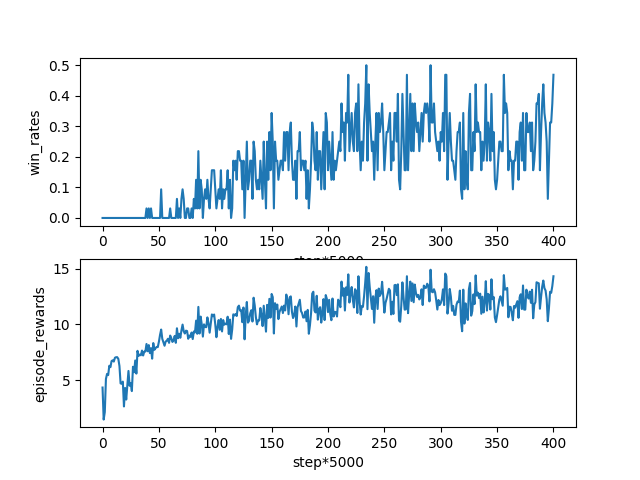
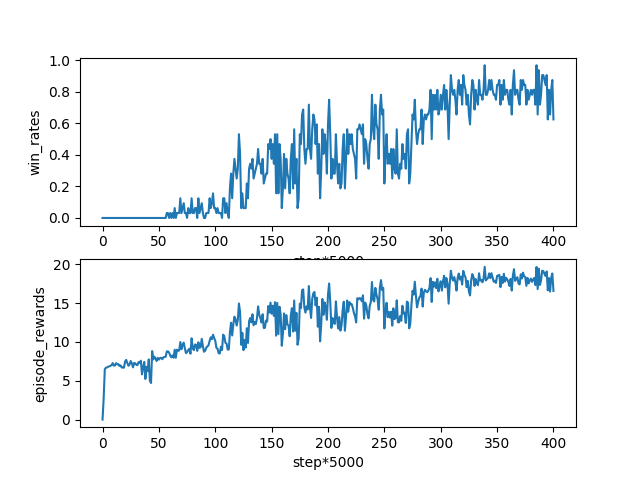
dtrans_obsw

diff --git a/network/dtrans.py b/network/dtrans.py
@@ -14,8 +14,8 @@ class DTRANS(nn.Module):
         self.qe = args.quantile_emb_dim 
         self.hypernet_emb = args.hypernet_emb
         self.state_dim = int(np.prod(args.state_shape))
-        """self.obs_w = OBS_W(args)
-        self.b_mean = nn.Sequential(nn.Linear(self.state_dim, self.hypernet_emb),
+        self.obs_w = OBS_W(args)
+        """self.b_mean = nn.Sequential(nn.Linear(self.state_dim, self.hypernet_emb),
                                     nn.ReLU(),
                                     nn.Linear(self.hypernet_emb, 1))"""
 
@@ -67,7 +67,8 @@ class DTRANS(nn.Module):
         assert(n==self.n_agents)
         assert(states.shape == (b,t,self.args.state_shape))
 
-        w_shape = f.softmax(self.w_shape(states),dim=2).unsqueeze(3).expand(-1,-1,-1,nq)
+        w_shape = self.obs_w(states, obs).reshape(b,t,n,1).expand(-1,-1,-1,nq)
+        #w_shape = f.softmax(self.w_shape(states),dim=2).unsqueeze(3).expand(-1,-1,-1,nq) * n
         z_values *= w_shape
 
         tau = rnd_q.view(b*t*nq, 1).expand(-1, self.qe)  # b*t*nq, qe
@@ -80,6 +81,5 @@ class DTRANS(nn.Module):
         psi = psi.reshape(b,t,1,self.hypernet_emb).expand(b,t,nq,self.hypernet_emb).reshape(b*t*nq,self.hypernet_emb)
         # psi: b*t*nq, emb
         Z_state = self.g(psi * phi).reshape(b, t, 1, nq)
-
         Z_total = z_values.sum(dim=2, keepdim=True) + Z_state
         return Z_total

diff --git a/network/transformers/obs_w.py b/network/transformers/obs_w.py
@@ -54,11 +54,11 @@ class OBS_W(nn.Module):
         all_head_w = torch.stack(all_head_w, dim=1) 
         all_head_w = all_head_w.view(-1, self.n_head, self.n_agents) #  bs, h, n
 
-        w_head = torch.abs(self.w_head(states))
+        """w_head = torch.abs(self.w_head(states))
         w_head = w_head.view(-1, self.n_head, 1).repeat(1, 1, self.n_agents)
         #b_head = self.b_head(states).view(-1, 1).repeat(1, self.n_agents)
 
-        all_head_w *= w_head
+        all_head_w *= w_head"""
         obs_w = torch.sum(all_head_w, dim = 1) # bs, n
 
         return obs_w
